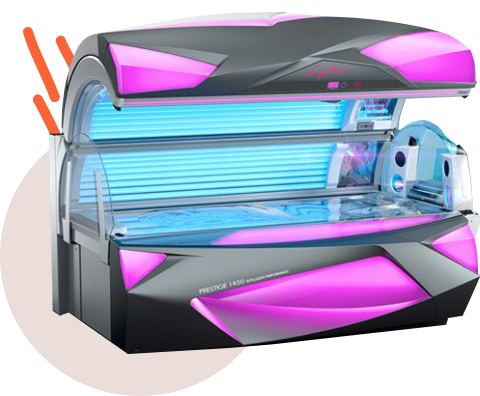
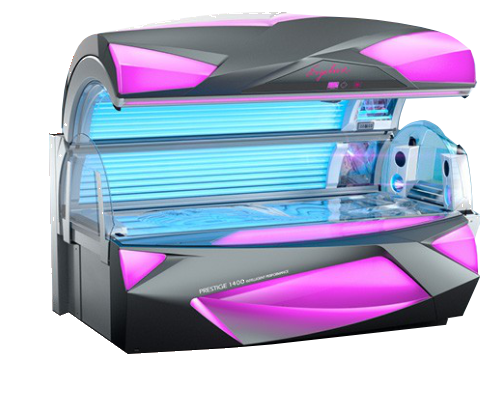
Sælan: hero back to bed-left / headline+ticket-right, Clash Display, clean cutout
The decorative circles and strokes baked into the Prestige cutout are
erased (color-keyed out via Pillow); the subscription ticket returns to
the hero right column with its seal and footnote (plan card back to
plain); display font moves from Zina to Clash Display Semibold. The
scroll-ride on the bed stays.

Changed region(s): [[0.0, 0.0606, 0.5, 1.0]]

diff --git a/src/preview/saelan/Page.tsx b/src/preview/saelan/Page.tsx
@@ -45,7 +45,7 @@ const PLATE = '#262038' // the single deep plate (Spraytan chapter)
 const PLATE_INK = '#F1EDFA' // ink on the dark plate
 
 const BASE = import.meta.env.BASE_URL
-const DISPLAY = "'Zina-Regular', 'CabinetGrotesk-Bold', sans-serif"
+const DISPLAY = "'ClashDisplay-Semibold', 'CabinetGrotesk-Bold', sans-serif"
 const SANS = "'CabinetGrotesk-Regular', system-ui, sans-serif"
 const SANS_MED = "'CabinetGrotesk-Medium', system-ui, sans-serif"
 const SANS_BOLD = "'CabinetGrotesk-Bold', system-ui, sans-serif"
@@ -248,7 +248,7 @@ export default function SaelanPage() {
 
   return (
     <div className="sn-root min-h-screen overflow-x-hidden pb-[4.5rem] antialiased md:pb-0" style={{ background: BG, color: BODY, fontFamily: SANS }}>
-      <link rel="stylesheet" href={`${BASE}fonts/zina/css/zina.css`} />
+      <link rel="stylesheet" href={`${BASE}fonts/clash-display/css/clash-display.css`} />
       <link rel="stylesheet" href={`${BASE}fonts/cabinet-grotesk/css/cabinet-grotesk.css`} />
       <script type="application/ld+json">{jsonLd}</script>
 
@@ -266,13 +266,11 @@ export default function SaelanPage() {
         .sn-img{transition:transform 1s cubic-bezier(0.22,1,0.36,1)}
         .sn-imgwrap:hover .sn-img{transform:scale(1.04)}
         .sn-bed{transform:translate3d(0,calc(var(--p,0)*-150px),0) scale(calc(1 + var(--p,0)*0.14)) rotate(calc(var(--p,0)*-4deg));will-change:transform}
-        .sn-orb{transform:translate(-50%,-50%) translate3d(0,calc(var(--p,0)*90px),0)}
         .sn-root :focus-visible{outline:3px solid ${CORAL};outline-offset:3px}
         @media (prefers-reduced-motion: reduce){
           .sn-root *,.sn-root *::before,.sn-root *::after{transition-duration:.01ms!important;animation-duration:.01ms!important;animation-iteration-count:1!important}
           .sn-reveal{opacity:1;transform:none;transition:none}
           .sn-bed{transform:none}
-          .sn-orb{transform:translate(-50%,-50%)}
         }
       `}</style>
 
@@ -300,7 +298,7 @@ export default function SaelanPage() {
         </div>
       </header>
 
-      {/* ── HERO — just the bed, riding the scroll ──────────────────────── */}
+      {/* ── HERO — the bed left, headline and the áskrift ticket right ──── */}
       <section id="top" ref={heroRef} className="relative flex min-h-[100svh] flex-col overflow-hidden" style={{ '--p': 0 } as React.CSSProperties}>
         {/* UV light: two big soft gradient orbs, pure paint */}
         <div
@@ -314,33 +312,71 @@ export default function SaelanPage() {
           style={{ background: `radial-gradient(circle, ${SUNY}40 0%, ${CORAL}1f 48%, transparent 72%)` }}
         />
 
-        <div className="relative mx-auto flex w-full max-w-[1280px] flex-1 flex-col px-5 pt-28 md:px-8">
-          <h1 className="text-center text-[clamp(3rem,8vw,7rem)] leading-[1.02]" style={{ fontFamily: DISPLAY, color: INK }}>
-            Gerðu þér <span style={{ color: CORAL }}>glaðan dag</span>
-          </h1>
-          <p className="mx-auto mt-5 max-w-lg text-center text-lg leading-snug md:text-xl" style={{ fontFamily: SANS_MED, color: INK }}>
-            Alla daga. Nýjustu ljósabekkir frá Ergoline og KBL, sjálfvirkt spraytan og áskrift í ljós.
-          </p>
+        <div className="relative mx-auto flex w-full max-w-[1280px] flex-1 flex-col justify-center px-5 pt-28 pb-12 md:px-8">
+          <div className="grid items-center gap-12 lg:grid-cols-[1.15fr_1fr] lg:gap-16">
+            {/* the bed they actually run, lifting toward you as you scroll */}
+            <div className="relative flex items-center justify-center">
+              <img
+                src={IMG.bedPrestige}
+                alt="Ergoline Prestige 1400 ljósabekkurinn"
+                width={480}
+                height={396}
+                fetchPriority="high"
+                className="sn-bed relative w-full max-w-[34rem]"
+                style={{ filter: 'drop-shadow(0 26px 22px rgba(38,33,46,0.25))' }}
+              />
+            </div>
 
-          {/* the bed they actually run, lifting toward you as you scroll */}
-          <div className="relative flex flex-1 items-center justify-center py-10">
-            <span
-              aria-hidden="true"
-              className="sn-orb absolute top-1/2 left-1/2 h-[19rem] w-[19rem] rounded-full md:h-[27rem] md:w-[27rem]"
-              style={{
-                background: `radial-gradient(circle at 40% 32%, #FFE9A8, ${SUNY} 55%, ${CORAL})`,
-                boxShadow: '0 30px 60px -30px rgba(242,107,58,0.5)',
-              }}
-            />
-            <img
-              src={IMG.bedPrestige}
-              alt="Ergoline Prestige 1400 ljósabekkurinn"
-              width={480}
-              height={396}
-              fetchPriority="high"
-              className="sn-bed relative w-full max-w-[32rem]"
-              style={{ filter: 'drop-shadow(0 26px 22px rgba(38,33,46,0.28))' }}
-            />
+            <div>
+              <h1 className="text-[clamp(2.7rem,5.4vw,4.8rem)] leading-[1.04]" style={{ fontFamily: DISPLAY, color: INK }}>
+                Gerðu þér <span style={{ color: CORAL }}>glaðan dag</span>
+              </h1>
+              <p className="mt-4 max-w-md text-lg leading-snug" style={{ fontFamily: SANS_MED, color: INK }}>
+                Alla daga. Nýjustu ljósabekkir frá Ergoline og KBL, sjálfvirkt spraytan og áskrift í ljós.
+              </p>
+
+              {/* the subscription, priced right where the eye lands */}
+              <a
+                href="#askrift"
+                className="sn-ticket relative mt-10 block focus-visible:outline-offset-8"
+                aria-label="Áskrift í ljós, 7.990 krónur á mánuði, borgar sig frá fjórðu heimsókn"
+              >
+                <span
+                  aria-hidden="true"
+                  className="sn-seal absolute -top-9 -right-3 z-10 grid h-24 w-24 place-items-center rounded-full text-center md:-top-11 md:-right-5 md:h-28 md:w-28"
+                  style={{ background: CORAL, boxShadow: '0 14px 30px -12px rgba(242,107,58,0.7)' }}
+                >
+                  <span className="px-3 text-[10px] leading-tight md:text-[11px]" style={{ fontFamily: SANS_BOLD, color: '#FFF6EF' }}>
+                    Borgar sig frá 4. heimsókn
+                  </span>
+                </span>
+
+                <span className="block rounded-[24px] p-6 md:p-7" style={{ background: SURF, border: `1px solid ${INK}14`, boxShadow: CARD_SHADOW }}>
+                  <span className="flex items-baseline justify-between gap-4">
+                    <span className="text-xl md:text-2xl" style={{ fontFamily: DISPLAY, color: INK }}>
+                      Áskrift í ljós
+                    </span>
+                    <span className="text-xs tracking-[0.12em] uppercase" style={{ fontFamily: MONO, color: CORAL }}>
+                      Sælan
+                    </span>
+                  </span>
+                  <span className="mt-2 block text-5xl md:text-6xl" style={{ fontFamily: DISPLAY, color: CORAL }}>
+                    7.990 kr
+                  </span>
+                  <span className="block text-sm" style={{ fontFamily: MONO, color: BODY }}>
+                    á mánuði
+                  </span>
+                  <span className="mt-4 flex flex-wrap items-center justify-between gap-4 border-t pt-4" style={{ borderColor: `${INK}0f` }}>
+                    <span className="inline-flex items-center rounded-full px-5 py-3 text-sm" style={{ background: CORAL, color: INK, fontFamily: SANS_BOLD }}>
+                      Koma í áskrift
+                    </span>
+                    <span className="text-[11px]" style={{ fontFamily: MONO, color: BODY }}>
+                      m.v. stakan tíma á 2.590 kr.
+                    </span>
+                  </span>
+                </span>
+              </a>
+            </div>
           </div>
         </div>
 
@@ -524,18 +560,7 @@ export default function SaelanPage() {
             <div className="flex flex-col gap-6">
               {PLANS.map((p, i) => (
                 <Reveal key={p.id} delay={i * 100}>
-                  <div className="relative rounded-[24px] p-7" style={{ background: SURF, border: `1px solid ${INK}14`, boxShadow: CARD_SHADOW }}>
-                    {i === 0 ? (
-                      <span
-                        aria-hidden="true"
-                        className="sn-seal absolute -top-10 -right-3 z-10 grid h-24 w-24 place-items-center rounded-full text-center md:-top-12 md:-right-5 md:h-28 md:w-28"
-                        style={{ background: CORAL, boxShadow: '0 14px 30px -12px rgba(242,107,58,0.7)' }}
-                      >
-                        <span className="px-3 text-[10px] leading-tight md:text-[11px]" style={{ fontFamily: SANS_BOLD, color: '#FFF6EF' }}>
-                          Borgar sig frá 4. heimsókn
-                        </span>
-                      </span>
-                    ) : null}
+                  <div className="rounded-[24px] p-7" style={{ background: SURF, border: `1px solid ${INK}14`, boxShadow: CARD_SHADOW }}>
                     <div className="flex flex-wrap items-baseline justify-between gap-3">
                       <p className="text-4xl md:text-5xl" style={{ fontFamily: DISPLAY, color: CORAL }}>
                         {isk(p.price)}
@@ -548,13 +573,8 @@ export default function SaelanPage() {
                       {p.binding}
                     </p>
                     <p className="mt-2 max-w-md text-base leading-relaxed">{p.pitch}</p>
-                    <div className="mt-6 flex flex-wrap items-center justify-between gap-4">
+                    <div className="mt-6">
                       <Soft href={p.href}>Koma í áskrift</Soft>
-                      {i === 0 ? (
-                        <span className="text-[11px]" style={{ fontFamily: MONO, color: BODY }}>
-                          m.v. stakan tíma á 2.590 kr.
-                        </span>
-                      ) : null}
                     </div>
                   </div>
                 </Reveal>

diff --git a/public/fonts/clash-display/css/clash-display.css b/public/fonts/clash-display/css/clash-display.css
@@ -1,0 +1,90 @@
+/**
+* @license
+*
+* Font Family: Clash Display
+* Designed by: Indian Type Foundry
+* URL: https://www.fontshare.com/fonts/clash-display
+* © 2026 Indian Type Foundry
+*
+* Clash Display Extralight 
+* Clash Display Light 
+* Clash Display Regular 
+* Clash Display Medium 
+* Clash Display Semibold 
+* Clash Display Bold 
+* Clash Display Variable (Variable font)
+
+*
+*/
+@font-face {
+  font-family: 'ClashDisplay-Extralight';
+  src: url('../fonts/ClashDisplay-Extralight.woff2') format('woff2'),
+       url('../fonts/ClashDisplay-Extralight.woff') format('woff'),
+       url('../fonts/ClashDisplay-Extralight.ttf') format('truetype');
+  font-weight: 200;
+  font-display: swap;
+  font-style: normal;
+}
+@font-face {
+  font-family: 'ClashDisplay-Light';
+  src: url('../fonts/ClashDisplay-Light.woff2') format('woff2'),
+       url('../fonts/ClashDisplay-Light.woff') format('woff'),
+       url('../fonts/ClashDisplay-Light.ttf') format('truetype');
+  font-weight: 300;
+  font-display: swap;
+  font-style: normal;
+}
+@font-face {
+  font-family: 'ClashDisplay-Regular';
+  src: url('../fonts/ClashDisplay-Regular.woff2') format('woff2'),
+       url('../fonts/ClashDisplay-Regular.woff') format('woff'),
+       url('../fonts/ClashDisplay-Regular.ttf') format('truetype');
+  font-weight: 400;
+  font-display: swap;
+  font-style: normal;
+}
+@font-face {
+  font-family: 'ClashDisplay-Medium';
+  src: url('../fonts/ClashDisplay-Medium.woff2') format('woff2'),
+       url('../fonts/ClashDisplay-Medium.woff') format('woff'),
+       url('../fonts/ClashDisplay-Medium.ttf') format('truetype');
+  font-weight: 500;
+  font-display: swap;
+  font-style: normal;
+}
+@font-face {
+  font-family: 'ClashDisplay-Semibold';
+  src: url('../fonts/ClashDisplay-Semibold.woff2') format('woff2'),
+       url('../fonts/ClashDisplay-Semibold.woff') format('woff'),
+       url('../fonts/ClashDisplay-Semibold.ttf') format('truetype');
+  font-weight: 600;
+  font-display: swap;
+  font-style: normal;
+}
+@font-face {
+  font-family: 'ClashDisplay-Bold';
+  src: url('../fonts/ClashDisplay-Bold.woff2') format('woff2'),
+       url('../fonts/ClashDisplay-Bold.woff') format('woff'),
+       url('../fonts/ClashDisplay-Bold.ttf') format('truetype');
+  font-weight: 700;
+  font-display: swap;
+  font-style: normal;
+}
+/**
+* This is a variable font
+* You can control variable axes as shown below:
+* font-variation-settings: wght 700.0;
+*
+* available axes:
+'wght' (range from 200.0 to 700.0
+*/
+@font-face {
+  font-family: 'ClashDisplay-Variable';
+  src: url('../fonts/ClashDisplay-Variable.woff2') format('woff2'),
+       url('../fonts/ClashDisplay-Variable.woff') format('woff'),
+       url('../fonts/ClashDisplay-Variable.ttf') format('truetype');
+  font-weight: 200 700;
+  font-display: swap;
+  font-style: normal;
+}
+

diff --git a/public/fonts/clash-display/README.md b/public/fonts/clash-display/README.md
@@ -1,0 +1,38 @@
+# Installing Webfonts
+Follow these simple Steps.
+
+## 1.
+Put `clash-display/` Folder into a Folder called `fonts/`.
+
+## 2.
+Put `clash-display.css` into your `css/` Folder.
+
+## 3. (Optional)
+You may adapt the `url('path')` in `clash-display.css` depends on your Website Filesystem.
+
+## 4.
+Import `clash-display.css` at the top of you main Stylesheet.
+
+```
+@import url('clash-display.css');
+```
+
+## 5.
+You are now ready to use the following Rules in your CSS to specify each Font Style:
+```
+font-family: ClashDisplay-Extralight;
+font-family: ClashDisplay-Light;
+font-family: ClashDisplay-Regular;
+font-family: ClashDisplay-Medium;
+font-family: ClashDisplay-Semibold;
+font-family: ClashDisplay-Bold;
+font-family: ClashDisplay-Variable;
+
+```
+## 6. (Optional)
+Use `font-variation-settings` rule to controll axes of variable fonts:
+wght 700.0
+
+Available axes:
+'wght' (range from 200.0 to 700.0
+